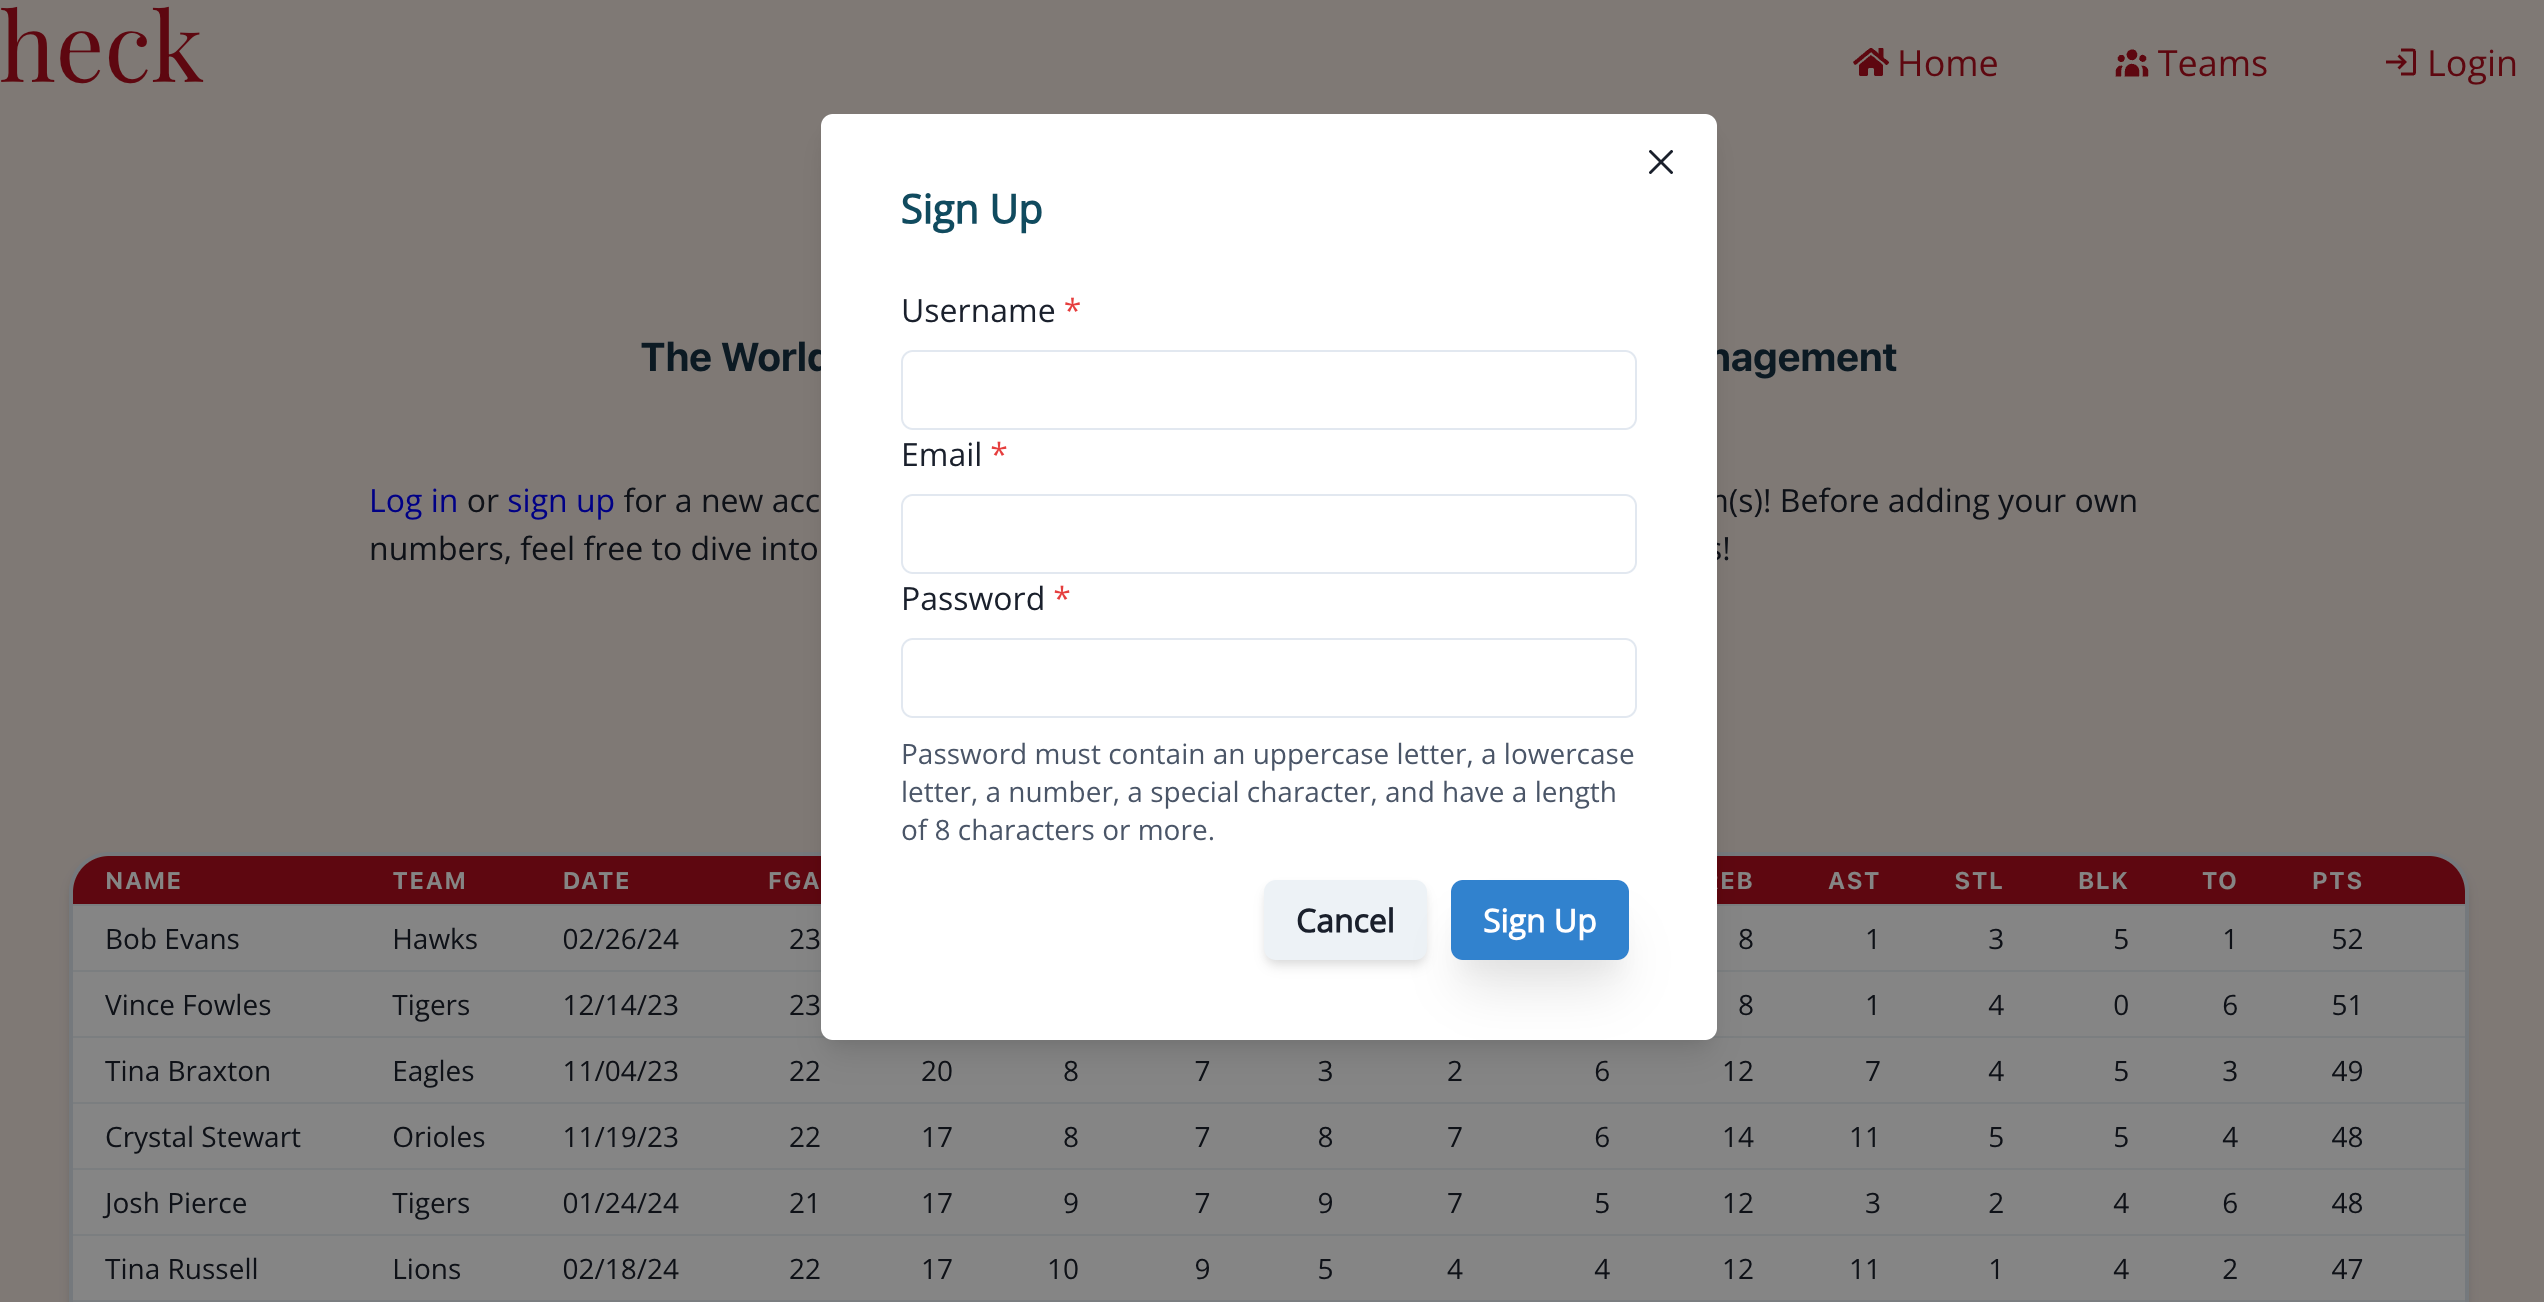
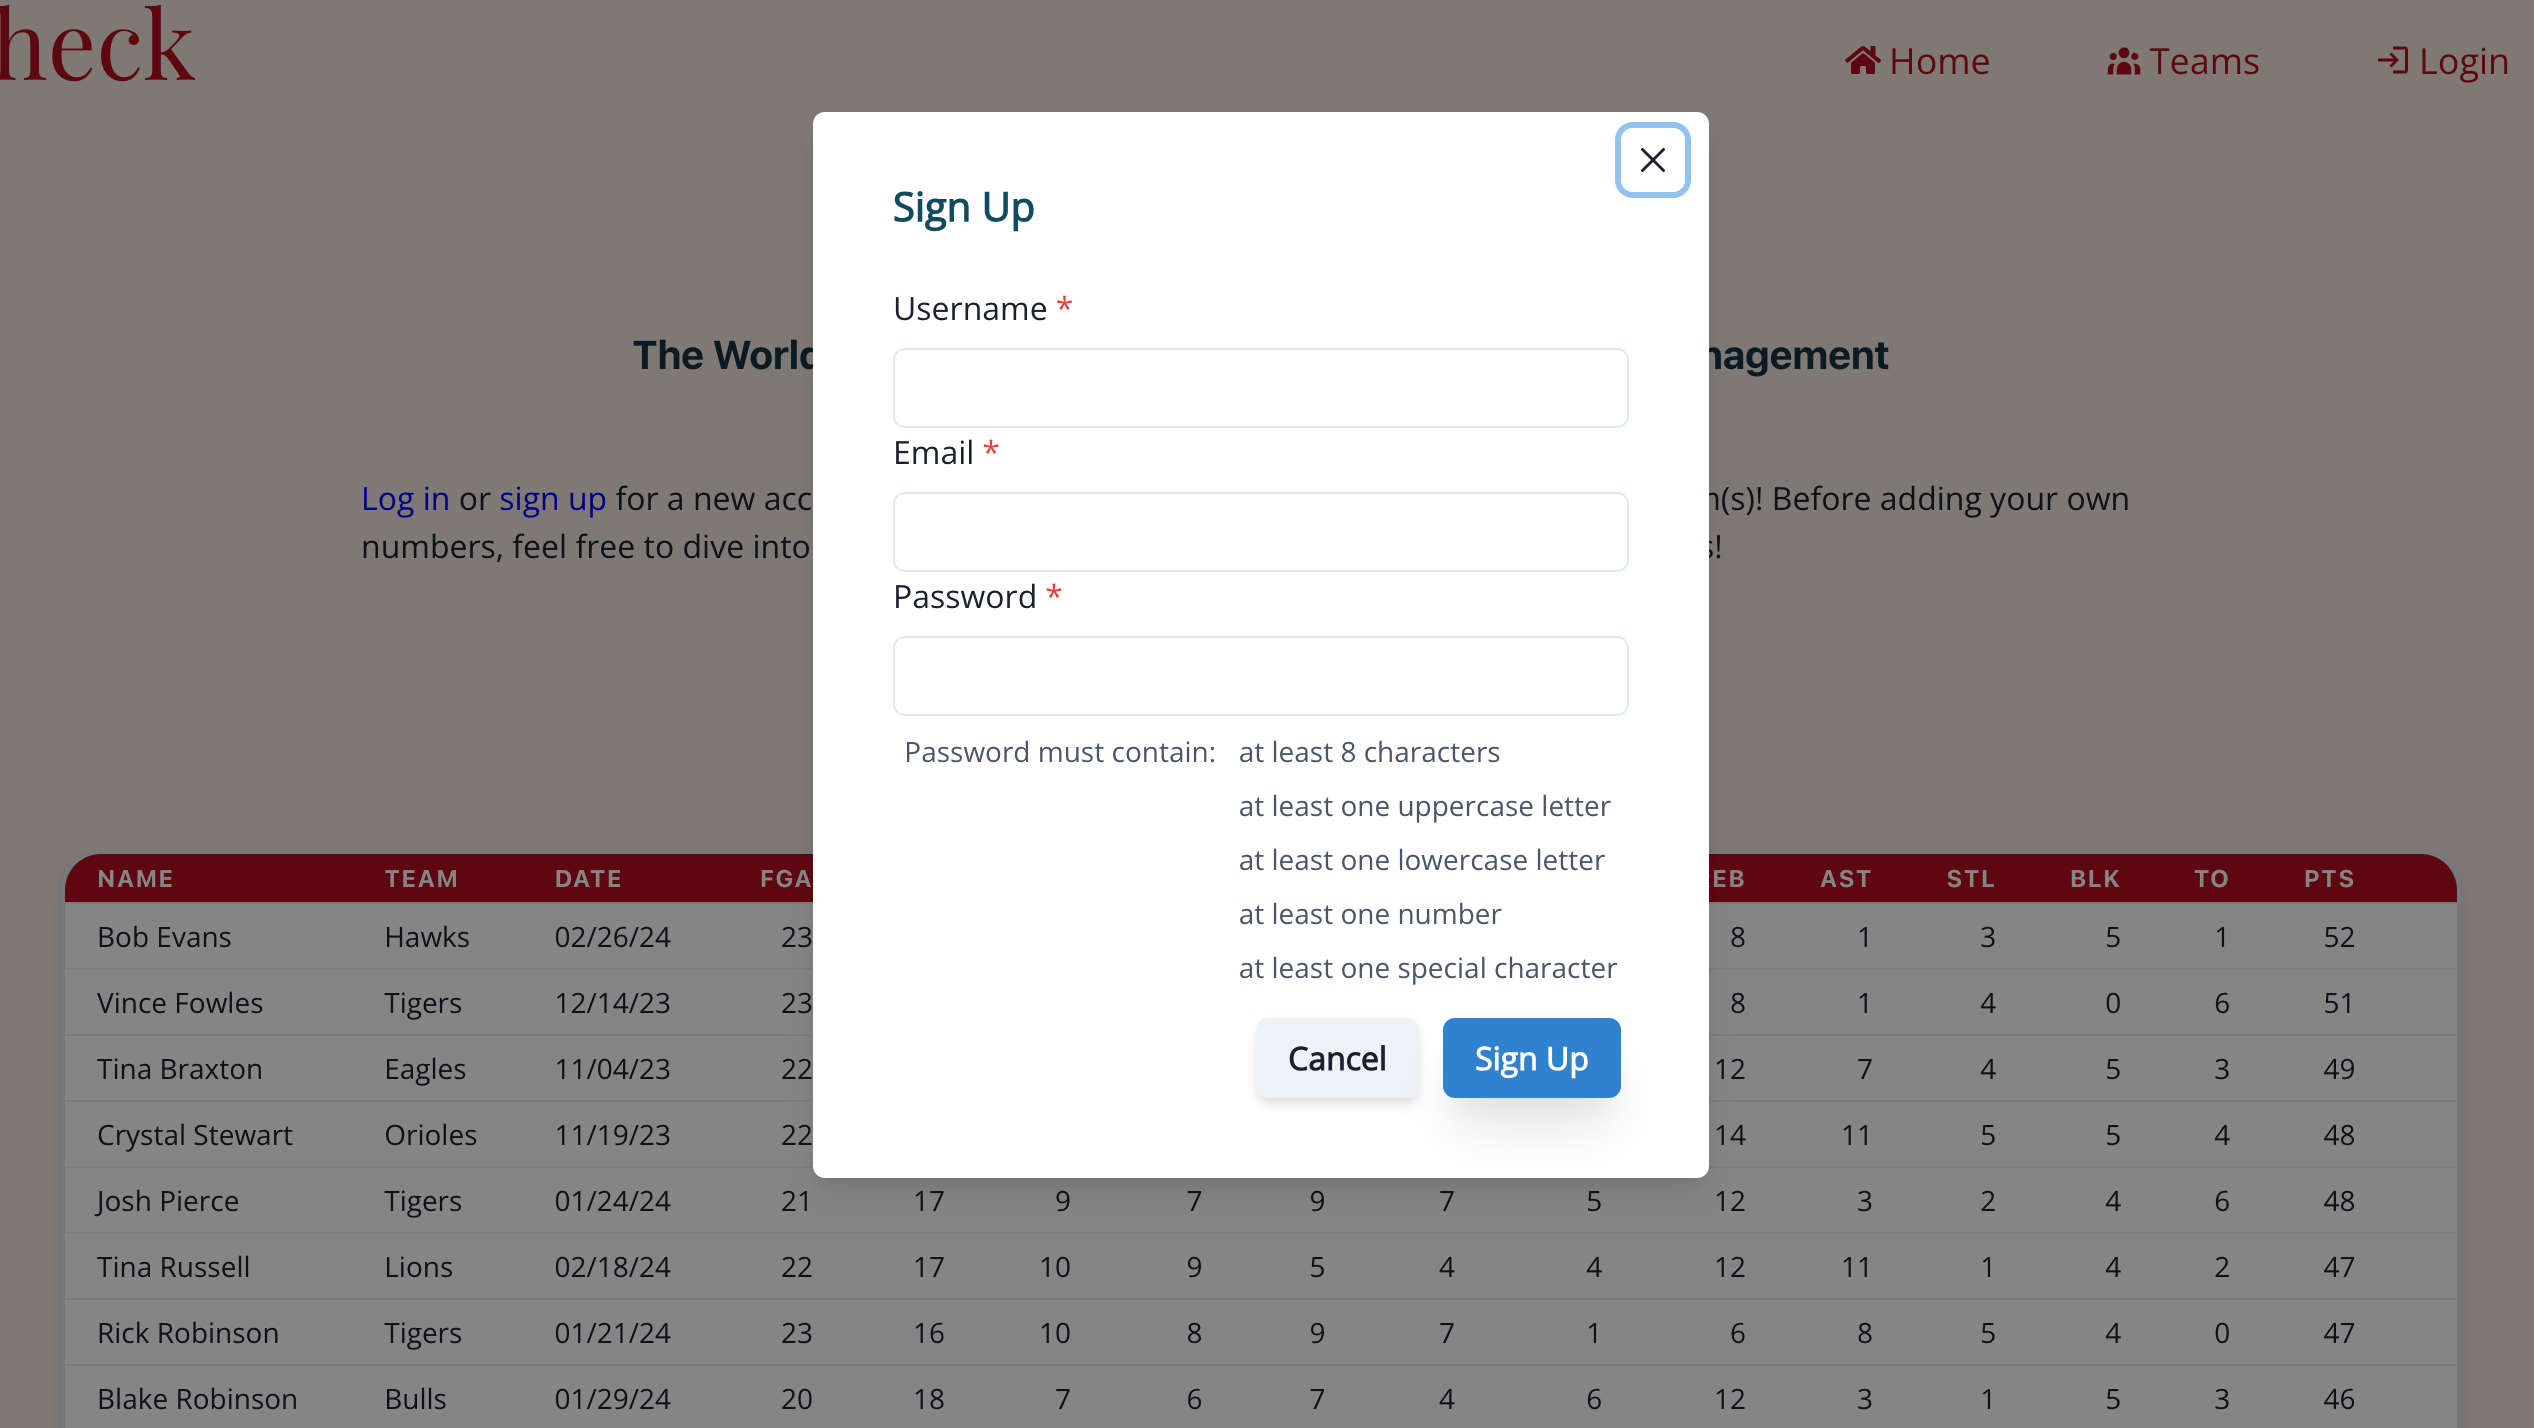
Update README.md

diff --git a/client/src/components/SignupModal/index.jsx b/client/src/components/SignupModal/index.jsx
@@ -12,7 +12,11 @@ import {
   Input,
   Button,
   Center,
-  FormHelperText
+  FormHelperText,
+  Flex,
+  HStack,
+  Text,
+  VStack
 } from '@chakra-ui/react';
 import { Formik, Form, Field } from 'formik';
 import { useMutation } from '@apollo/client';
@@ -108,7 +112,18 @@ export default function SignupModal({ isOpen, onClose }) {
                           { ...field }
                         />
                         <FormErrorMessage>{form.errors.password}</FormErrorMessage>
-                        <FormHelperText>Password must contain an uppercase letter, a lowercase letter, a number, a special character, and have a length of 8 characters or more.</FormHelperText>
+                        <FormHelperText>
+                          <Flex justify='space-around' align='flex-start'>
+                              <Text>Password must contain:</Text>
+                              <VStack align='left'>
+                                <Text>at least 8 characters</Text>
+                                <Text>at least one uppercase letter</Text>
+                                <Text>at least one lowercase letter</Text>
+                                <Text>at least one number</Text>
+                                <Text>at least one special character</Text>
+                              </VStack>
+                          </Flex>
+                        </FormHelperText>
                       </FormControl>
                     }
                   </Field>
